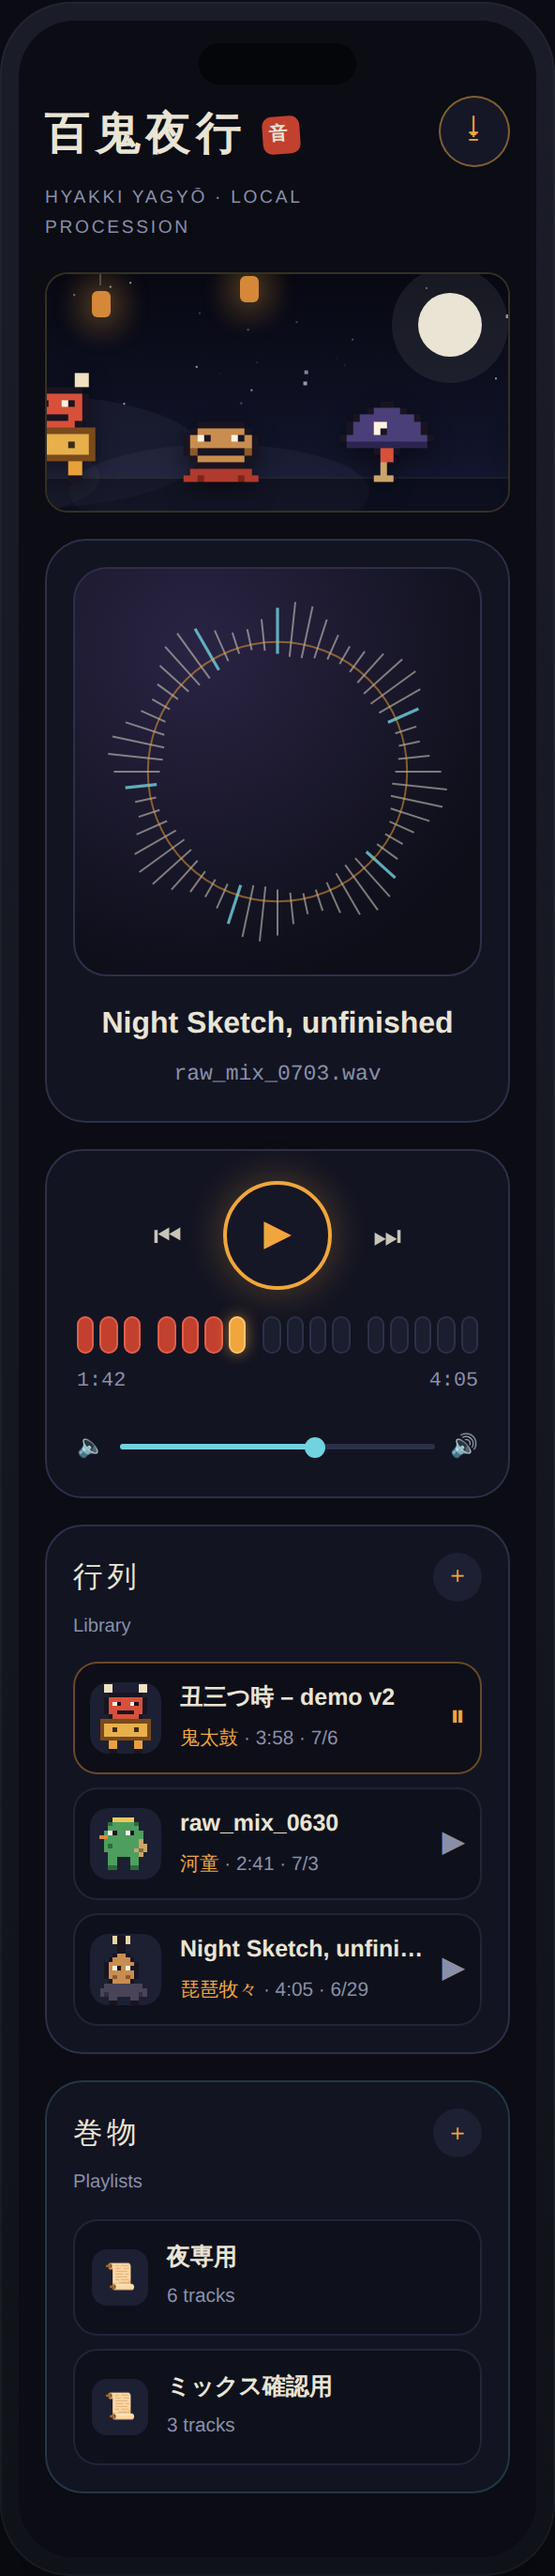
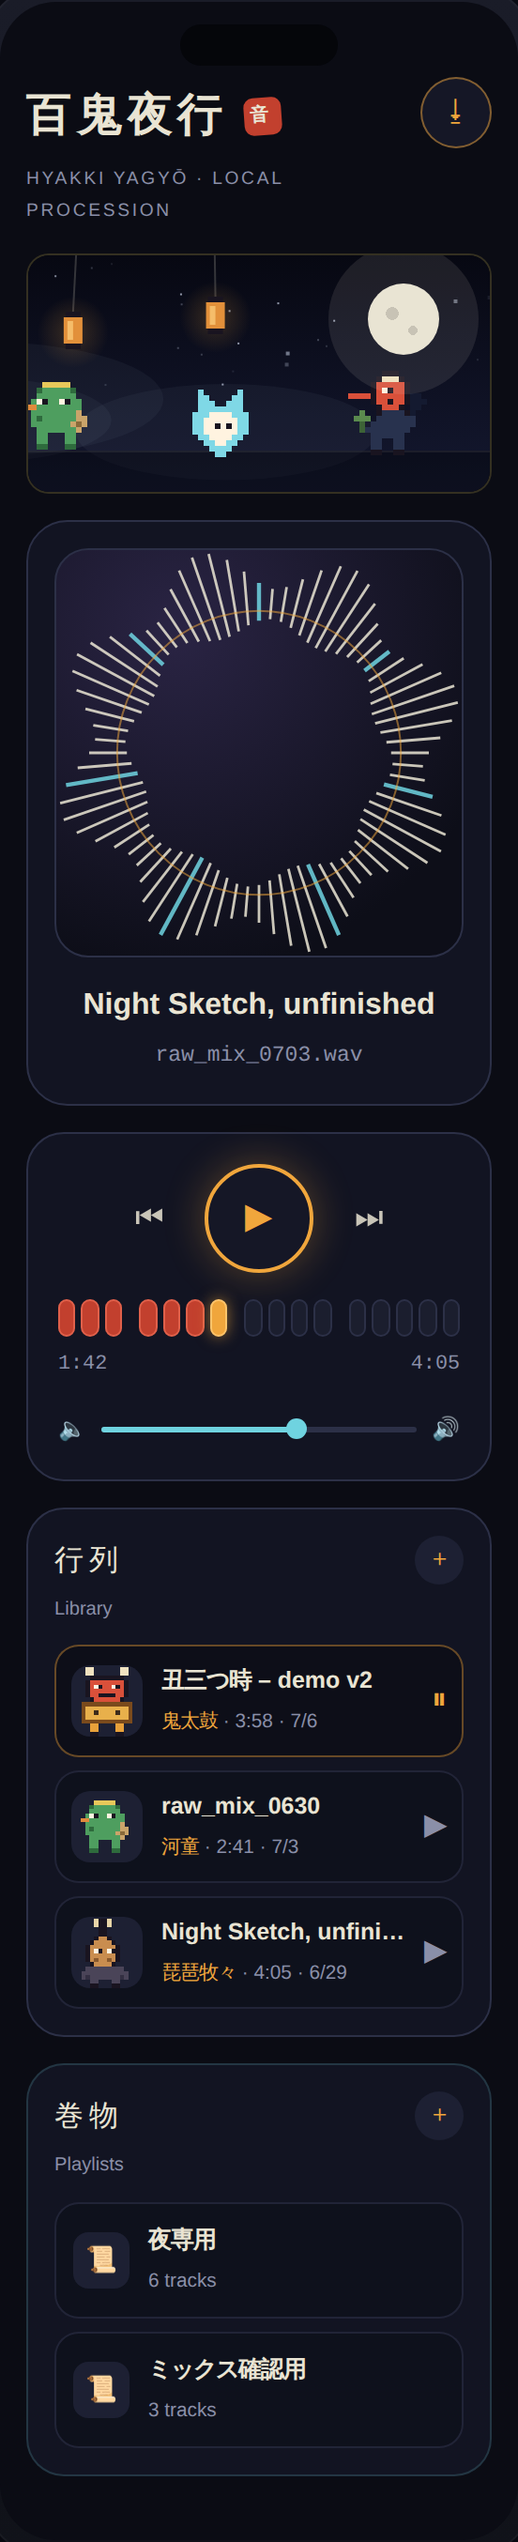
docs/design: 刷新したアーティファクトから全画像を再書き出し
- がしゃどくろ提案画像を新スプライト(国芳構図・52×58ドット・
  4案並列制作+3視点審査で選定)のパネルに差し替え
- day/丑三つ時のスクリーン画像を、実装の振付(2フレーム歩行・
  hit・squash・flare・バチ)が動く新モックから再書き出し
- 円形ウェーブフォームを CircularWaveform(76本・音量反応)の
  忠実移植に更新した画像に差し替え
- スプライト寸法の表記を実寸 52×58 に統一(レビュー指摘対応)

Claude-Session: https://claude.ai/code/session_01XmW1hQAkqzn7LwpEptVzag

diff --git a/docs/DESIGN_NAV.md b/docs/DESIGN_NAV.md
@@ -76,7 +76,7 @@
 
 名の由来は骨が鳴る「がしゃがしゃ」という音 — 強いパーカッションの連打に骨が震える、翻訳帳的な必然がある新規キャラクター案。ただし §4.1 は頭数ではなく一体あたりの深度に投資する方針であり、§6 は妖怪の頭数を増やすこと自体を目的にしないと定めている。したがって**行列には加えない**。丑三つ時にだけ、夜空の奥にただ一体 — 月光に沈む頭蓋、眼窩の紅、肋骨の檻、行列の上へ差しかかる指骨 — が気配として佇む。行列の仲間ではなく、丑三つ時という時刻そのものの一部として。
 
-ドット絵は歌川国芳「相馬の古内裏」の骸骨を下敷きに、行列の8体(13〜15ドット)とは別格の大判(約50×56ドット)で起こした2フレーム構成。idle と rattle(下顎・前腕・指骨・肋骨だけを1ドット震わせ、頭蓋は動かさない)を持ち、連打の合図で切り替わる。インタラクティブ版ではパネルに触れると骨が鳴る。
+ドット絵は歌川国芳「相馬の古内裏」の骸骨を下敷きに、行列の8体(13〜15ドット)とは別格の大判(52×58ドット)で起こした2フレーム構成。idle と rattle(下顎・前腕・指骨・肋骨だけを1ドット震わせ、頭蓋は動かさない)を持ち、連打の合図で切り替わる。インタラクティブ版ではパネルに触れると骨が鳴る。
 
 ![gashadokuro](design/gashadokuro-proposal.png)
 
